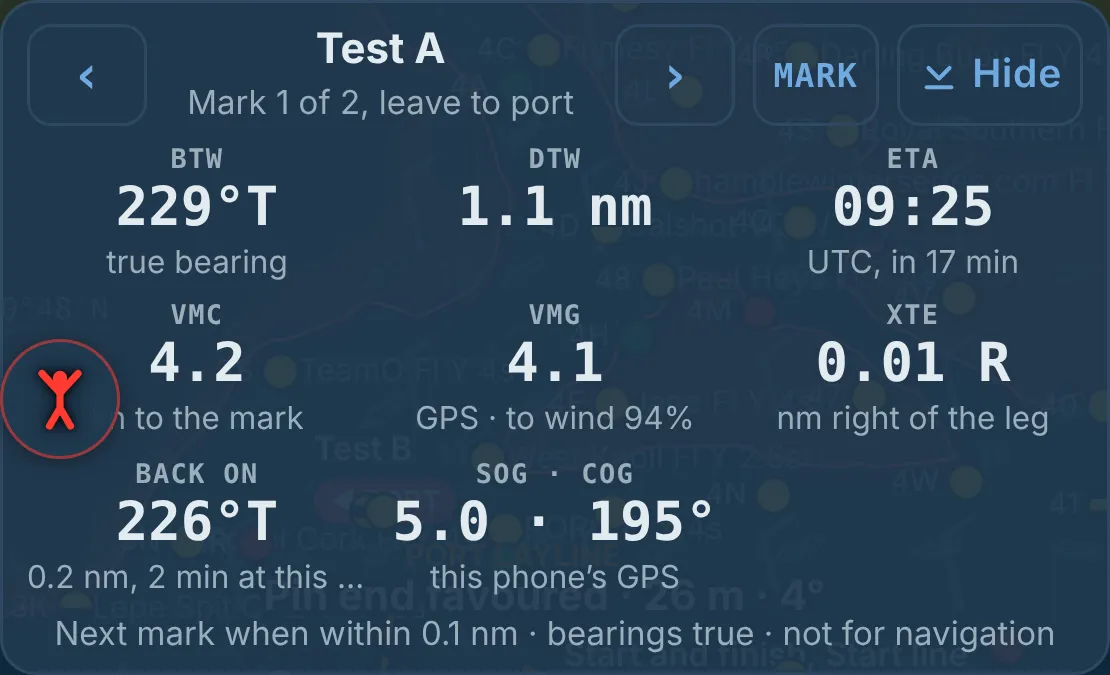
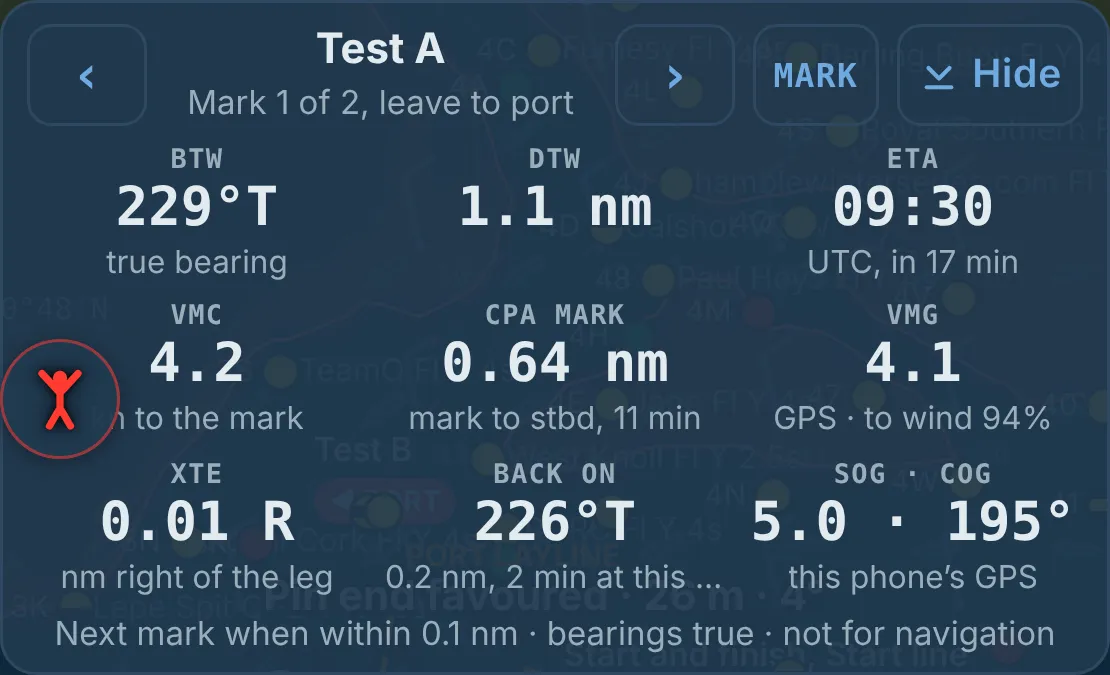
Plotter bar: CPA to the next mark (closest pass on present course and speed over the ground, side and time; a layline check); Help topic CPA: to the mark and to other boats, with picture (Stuart 09:15)
Claude-Session: https://claude.ai/code/session_011G6Dp4mrjFjgEiUjrYpsea

diff --git a/site/cervantes/markhelp.js b/site/cervantes/markhelp.js
@@ -9,6 +9,7 @@
   /* [title, paragraphs, plus only] */
   var T = [
     /* Getting started */
+    ['CPA: to the mark and to other boats', ['CPA (closest point of approach) means two things on the plotter. CPA mark is the closest you will pass the next mark if you hold your present course and speed over the ground, and how long until then, with the mark to port or to starboard. Near zero, you are laying the mark: it is a layline check. Opening means the closest point is already behind you. CPA to other boats is in the AIS window: how close each boat or ship will pass if both hold course and speed, and when (TCPA); a target inside the CPA alarm flashes red.']],   /* 20 Nov (Stuart 09:15) */
     ['VMG and VMC', ['VMG (velocity made good) is your speed towards the wind on a beat, or away from it on a run. Instruments work it out through the water: boat speed times the cosine of the true wind angle. It shows how well you are sailing the angles, and the polar gives a target VMG for the wind speed.', 'VMC (velocity made on course) is your speed over the ground towards the next mark, tide included: speed over the ground times the cosine of the angle between your course over the ground and the bearing to the mark. It is the speed that gets you to the mark, on any leg.', 'They are different numbers. On a reach VMG means little and VMC is what counts. Some GPS units label VMC as VMG to waypoint; FirstShift always calls it VMC.', 'Mark has only the phone’s GPS, so its VMG is your speed over the ground along the wind direction in use (forecast or typed in), tide included, and it says so beside the number. Mark+ takes VMG from the boat’s instruments, through the water. Both show the polar target and how close you are to it.']],   /* 20 Nov VMG/VMC review (Stuart 09:25) */
     ['What Mark does', ['Mark is FirstShift’s inshore racing tool for the Solent: round the cans and windward-leeward.', 'Set the course from the Solent racing marks, set the start line, run the start sequence, and Mark shows the favoured end, time to the line and time to burn, then the bearing and distance to every mark.', 'Route it on the forecast when you want to. Everything Route does is here too. A planning aid, not for navigation.']],
     ['Mark and Mark+', ['Mark runs in the phone’s browser and uses the phone’s own GPS.', 'Mark+ is the Android app. It does everything Mark does and connects to the boat’s instruments, so the start screen also shows boat speed, true and apparent wind angle and heel, the tide can come from the boat, and Mark+ learns how quickly your boat gets up to speed.']],
@@ -72,7 +73,7 @@
     { id: 'mcourse', name: 'Set the course', blurb: 'Round the cans, windward-leeward, wind and tide', titles: ['Start new race', 'Route this race, or not?', 'Round the cans', 'Windward-leeward', 'The wind', 'The tide', 'Check the course', 'The course card', 'Solent races on the chart', 'Tide by hand'], re: /$^/ },
     { id: 'mline', name: 'The start line', blurb: 'Set it, ping it, the favoured end', titles: ['Set the start line', 'Ping the ends', 'Start line and bow offset', 'Line bias and the favoured end', 'The ladder rung', 'Line check'], re: /$^/ },
     { id: 'mgun', name: 'The start', blurb: 'Sequence, start screen, time to burn', titles: ['The start sequence', 'Sync and the minute buttons', 'A series of starts', 'The start screen', 'Time to line and time to burn', 'Getting up to speed', 'Course side', 'General recall'], re: /$^/ },
-    { id: 'mrace', name: 'Racing the legs', blurb: 'Next mark, laylines, course change', titles: ['VMG and VMC', 'The next mark', 'Laylines and the tide', 'Header or lift', 'The time slider folds away', 'Course change', 'Basic plotter', 'Live GPS while racing', 'Tide gate', 'Move the GPS window', 'Man overboard', 'AIS'], re: /$^/ },
+    { id: 'mrace', name: 'Racing the legs', blurb: 'Next mark, laylines, course change', titles: ['VMG and VMC', 'CPA: to the mark and to other boats', 'The next mark', 'Laylines and the tide', 'Header or lift', 'The time slider folds away', 'Course change', 'Basic plotter', 'Live GPS while racing', 'Tide gate', 'Move the GPS window', 'Man overboard', 'AIS'], re: /$^/ },
     { id: 'mfin', name: 'Finish and after', blurb: 'The finish, your track, the crew ashore', titles: ['The finish', 'Stop race and start new race', 'My tracks', 'Follow the boat', 'Family and friends'], re: /$^/ },
     { id: 'mplus', name: 'Mark+ on board', blurb: 'Instruments, wind and tide from the boat, learning', titles: ['Instruments on the start screen', 'Wind and tide from the boat', 'Learning your boat'], re: /$^/ },
     { id: 'boat', name: 'The boat and instruments', blurb: 'Connecting, the strip, data and alarms', titles: [], re: /instrument|gateway|nmea|data sour|connect|alarm|depth|starlink/i },

diff --git a/site/cervantes/fsplot.js b/site/cervantes/fsplot.js
@@ -81,6 +81,18 @@
   function dist(d) { return d < 0.1 ? Math.round(d * 1852) + ' m' : n1(d) + ' nm'; }
   function dur(h) { var m = Math.round(h * 60); return m >= 60 ? Math.floor(m / 60) + 'h ' + ('0' + m % 60).slice(-2) : m + ' min'; }
   function clk(ms) { var d = new Date(ms); return ('0' + d.getUTCHours()).slice(-2) + ':' + ('0' + d.getUTCMinutes()).slice(-2); }
+  /* CPA to the next mark (Stuart 20 Nov 09:15: "both would be good but needs to be explained"): the closest the boat will pass the mark if it
+     holds its present course and speed over the ground, and when. Near zero: the boat is laying the mark (a layline check). Opening: the
+     closest point is already behind. CPA to other boats is in the AIS window. */
+  function cpaCell(o) {
+    if (o.dtw == null || o.btw == null || o.sog == null || o.cog == null || o.sog < 0.3) return cell('CPA mark', '--', 'needs the boat moving', '', 'Closest point of approach to the next mark on your present course and speed over the ground');
+    var dx = o.dtw * Math.sin(o.btw * R), dy = o.dtw * Math.cos(o.btw * R), vx = o.sog * Math.sin(o.cog * R), vy = o.sog * Math.cos(o.cog * R), t = (dx * vx + dy * vy) / (o.sog * o.sog);
+    var tip = 'Closest point of approach to the next mark if you hold this course and speed over the ground. Near zero: you are laying the mark. CPA to other boats is in the AIS window.';
+    if (t <= 0) return cell('CPA mark', fmtD(o.dtw), 'opening: past it', 'bad', tip);
+    var cx = dx - vx * t, cy = dy - vy * t, c = Math.hypot(cx, cy), side = (vx * dy - vy * dx) > 0 ? 'to port' : 'to stbd', min = t * 60;
+    return cell('CPA mark', fmtD(c), (c < 0.02 ? 'laying it' : 'mark ' + side) + ', ' + (min < 1 ? 'under 1 min' : Math.round(min) + ' min'), '', tip);
+  }
+  function fmtD(nm) { return nm < 0.54 ? Math.round(nm * 1852) + ' m' : nm.toFixed(2) + ' nm'; }
   /* VMG (Stuart 20 Nov 09:25, docs/VMG-VMC-REVIEW.md): speed towards the wind on a beat, away from it on a run, said in words; from the
      boat's instruments through the water when there are any, else over the ground (tide included) along the wind in use, and it says which.
      On a reach it gives way to VMC. The polar's target VMG beside it. */
@@ -115,6 +127,7 @@
         cell('DTW', dist(o.dtw), '') +
         cell('ETA', o.eta ? clk(o.eta) : '--', o.eta ? 'UTC, in ' + dur((o.eta - Date.now()) / 3600e3) : 'not closing') +
         cell('VMC', o.vmc != null ? o.vmc.toFixed(1) : '--', o.vmc != null ? 'kn to the mark' : 'needs the boat moving', o.vmc != null && o.vmc < 0 ? 'bad' : '') +
+        cpaCell(o) +
         vmgCell(o, (function () { try { return window.FSSolent && FSSolent.windRef ? FSSolent.windRef() : null; } catch (e) { return null; } })()) +
         cell('XTE', x ? (x.d < 0.01 ? '0.00' : x.d.toFixed(2) + ' ' + x.side) : '--', x ? (x.d < 0.01 ? (o.m.route ? 'on the route' : 'on the leg') : 'nm ' + (x.side === 'L' ? 'left' : 'right') + ' of the ' + (o.m.route ? 'route' : 'leg')) : '') +
         (o.back && !o.m.route ? cell('BACK ON', brg(o.back.brg), o.back.min != null ? dist(o.back.d) + ', ' + (o.back.min < 1 ? 'under a minute' : Math.round(o.back.min) + ' min') + ' at this speed' : dist(o.back.d) + ' to the line') : '') +

diff --git a/site/cervantes/helpfind.js b/site/cervantes/helpfind.js
@@ -12,7 +12,7 @@
   var SECTIONS = window.FS_HELP_SECTIONS || [
     { id: 'start', name: 'Getting started', blurb: 'What it does, your boat, a first race', titles: ['What Route does', 'Try it safely first', 'Setting up a race', 'Your boat', 'Your sails and reefs', 'My set-up', 'Find a setting', 'Plan', 'Play the race'], re: /try it|getting|setting up|first|my set-up|find a setting/i },
     { id: 'boat', name: 'The boat and instruments', blurb: 'Connecting, the strip, data and alarms', titles: ['Connect to the boat', 'The instrument strip', 'Settings: Instruments', 'Data sources and GPS', 'Alarms', 'Depth smoothing', 'Wind check and wind by hand', 'Internet and Starlink'], re: /instrument|gateway|nmea|data source|alarm|connect/i },
-    { id: 'race', name: 'Racing', blurb: 'Live GPS, rerouting, the plotter, MOB', titles: ['Live GPS while racing', 'Routing while racing', 'Route from where you are', 'Route from any point', 'Route to any point', 'Basic plotter', 'The plotter', 'VMG and VMC', 'Steer to stay on the route', 'Helm view', 'The boat is here', 'Follow the boat', 'Fleet', 'AIS', 'Man overboard', 'Send to the crew', 'Family and friends', 'Tide gate', 'Tactician', 'Solent races on the chart', 'Start line and bow offset'], re: /racing|live gps|plotter|mob|overboard|fleet|follow|helm|crew/i },
+    { id: 'race', name: 'Racing', blurb: 'Live GPS, rerouting, the plotter, MOB', titles: ['Live GPS while racing', 'Routing while racing', 'Route from where you are', 'Route from any point', 'Route to any point', 'Basic plotter', 'The plotter', 'VMG and VMC', 'CPA: to the mark and to other boats', 'Steer to stay on the route', 'Helm view', 'The boat is here', 'Follow the boat', 'Fleet', 'AIS', 'Man overboard', 'Send to the crew', 'Family and friends', 'Tide gate', 'Tactician', 'Solent races on the chart', 'Start line and bow offset'], re: /racing|live gps|plotter|mob|overboard|fleet|follow|helm|crew/i },
     { id: 'wx', name: 'Forecasts and routing', blurb: 'Routes, isochrones, models, wind by hand', titles: ['Routes', 'Isochrones', 'New forecasts', 'How old is each forecast', 'Forecast models: ages and blending', 'Forecast models and resolution', 'If you think the forecast is wrong', 'Tide by hand', 'Wind by hand', 'Ask Route'], re: /forecast|model|routing|route|wind|tide|isochron/i },
     { id: 'chart', name: 'Chart and screen', blurb: 'Charts, marks, waypoints, moving things', titles: ['Charts', 'Real charts', 'Chart orientation', 'Waypoints on the course', 'Clear screen', 'Move the GPS window', 'Move the panels', 'My tracks', 'Astro'], re: /chart|mark|depth|waypoint|screen|move/i },
     { id: 'polar', name: 'Polars and the log', blurb: 'Learning polars, sails, the race log', titles: ['Polars', 'Log and debrief'], re: /polar|log\b|debrief/i },

diff --git a/site/cervantes/fshelp.js b/site/cervantes/fshelp.js
@@ -4,6 +4,7 @@
 (function () {
   'use strict';
   var T = [
+    ['cpa', 'CPA: to the mark and to other boats', 'CPA (closest point of approach) means two things on the plotter. CPA mark is the closest you will pass the next mark if you hold your present course and speed over the ground, and how long until then, with the mark to port or to starboard. Near zero, you are laying the mark: it is a layline check. Opening means the closest point is already behind you. CPA to other boats is in the AIS window: how close each boat or ship will pass if both hold course and speed, and when (TCPA); a target inside the CPA alarm flashes red.'],   /* 20 Nov (Stuart 09:15) */
     ['vmgvmc', 'VMG and VMC', 'VMG (velocity made good) is your speed towards the wind on a beat, or away from it on a run. Instruments work it out through the water: boat speed times the cosine of the true wind angle. It shows how well you are sailing the angles, and the polar gives a target VMG for the wind speed. VMC (velocity made on course) is your speed over the ground towards the next mark, tide included: speed over the ground times the cosine of the angle between your course over the ground and the bearing to the mark. It is the speed that gets you to the mark, on any leg. They are different numbers. On a reach VMG means little and VMC is what counts. Some GPS units label VMC as VMG to waypoint; FirstShift always calls it VMC. In Route the plan strip and the route box show VMC; the Upwind and Downwind target rows give the polar VMG. Route+ shows VMG from the boat’s instruments in the strip.'],   /* 20 Nov VMG/VMC review (Stuart 09:25) */
     ['plot', 'Basic plotter', 'PLOT, by the GPS button, shows the next mark from this phone’s own GPS: its bearing (BTW, true), distance (DTW), the speed you are making towards it (VMC), the time you will get there at that speed (ETA, UTC) and how far you are off the leg from the last mark (XTE, left or right). Arrows step to the previous or next mark; within 0.1 nm the next mark comes up by itself. On the chart: a dotted bearing line, a ring on the next mark and a 10-minute line along your course over the ground. Hide shrinks it to one line. PLOT turns on Live GPS. Not for navigation.'],
     ['charts', 'Charts', 'Settings, Charts says what the chart is drawn from, how to change what it shows with the layers button, and why it is not for navigation. Official charts from GeoGarage are coming.'],
